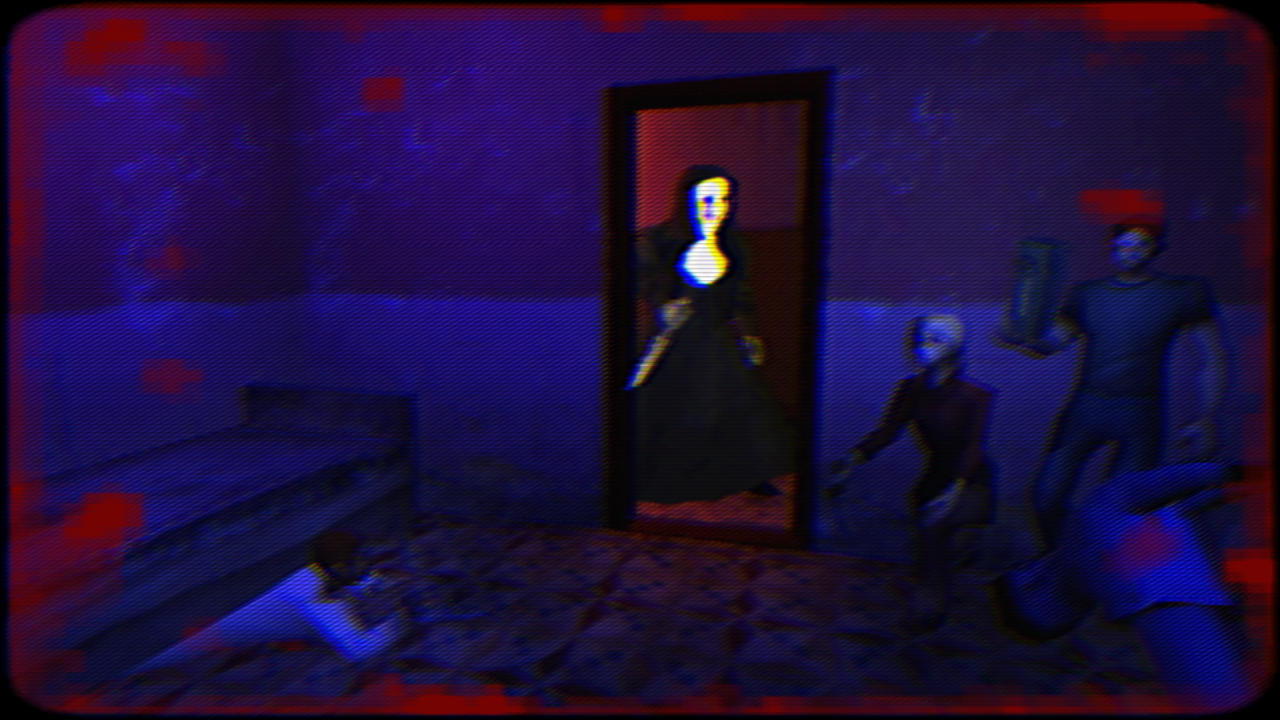
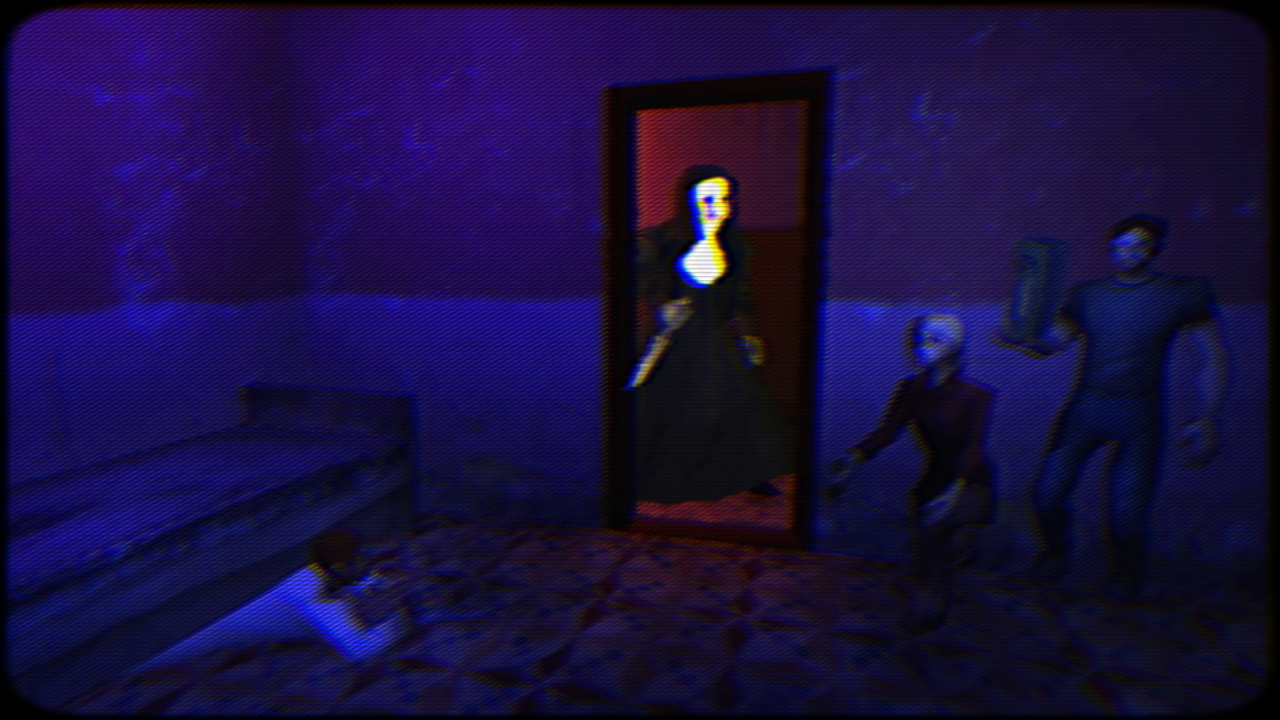
README: the bedroom screenshot without blood, and a vent screenshot beside it

diff --git a/README.md b/README.md
@@ -6,7 +6,10 @@ A multiplayer mod for **Nun Massacre Definitive Edition** (Windows, build 2022.0
 
 Every player needs their own copy of the game and the same version of the mod.
 
-<p align="center"><img src="docs/images/screenshot-bedroom.png" alt="The Nun in a doorway, three teammates in a dark bedroom"></p>
+<p align="center">
+  <img src="docs/images/screenshot-bedroom.png" width="49%" alt="The Nun in a doorway, three teammates in a dark bedroom">
+  <img src="docs/images/screenshot-vent.png" width="49%" alt="Two teammates crawling through a vent">
+</p>
 
 ## Install
 
